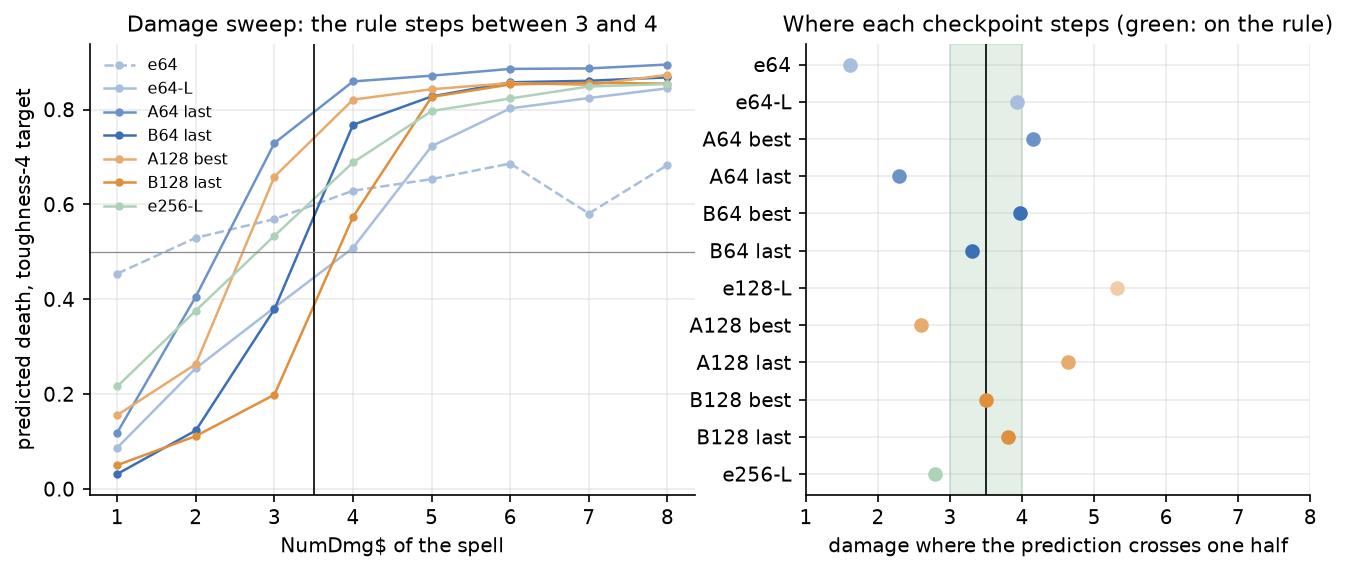
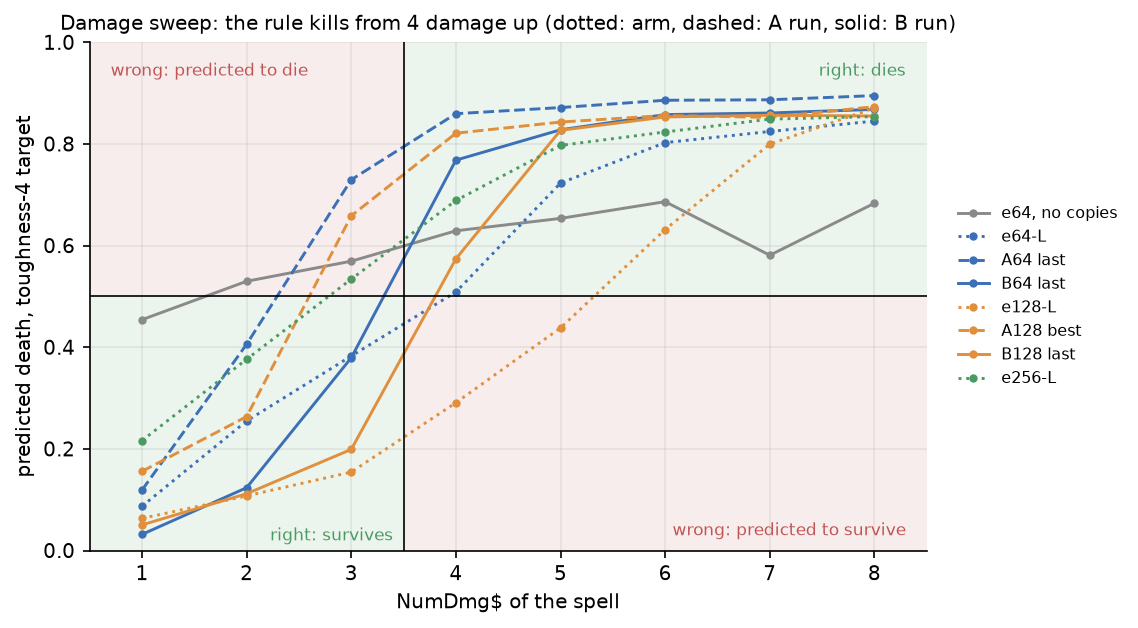
docs(effects): damage sweep shades the right and wrong quadrants in place of the crossing-point panel

diff --git a/scripts/effect_gen2_report/make_charts.py b/scripts/effect_gen2_report/make_charts.py
@@ -377,44 +377,47 @@ def boundary_by_epoch() -> None:
 
 
 def damage_sweep() -> None:
+    """The damage sweep, over quadrants that say whether a prediction is on the rule's side.
+
+    The rule kills a toughness-4 target from 4 damage up, so a curve is on the right
+    side below one half left of the step and above one half right of it, however soft.
+    """
     s = csv("sweeps.csv")
     s = s[s.sweep == "damage_spell"]
-    chosen = present(["e64", "e64-lethality", "A64 best", "A64 last", "B64 best", "B64 last",
-                      "e128-lethality", "A128 best", "A128 last", "B128 best", "B128 last",
-                      "e256-lethality", "A256 best", "A256 last", "B256 best", "B256 last"],
-                     s.checkpoint)
-    fig, (ax, ax2) = plt.subplots(1, 2, figsize=(10.5, 3.9),
-                                  gridspec_kw={"width_ratios": [1.2, 1]})
-    for name in present(["e64", "e64-lethality", "A64 last", "B64 last", "A128 best",
-                         "B128 last", "e256-lethality", "B256 last"], s.checkpoint):
+    fig, ax = plt.subplots(figsize=(7.2, 4.4))
+    right, wrong = "#4a9a62", "#c05555"
+    for (x0, x1), (y0, y1), colour in (((0.5, 3.5), (0, 0.5), right),
+                                       ((3.5, 8.5), (0.5, 1), right),
+                                       ((0.5, 3.5), (0.5, 1), wrong),
+                                       ((3.5, 8.5), (0, 0.5), wrong)):
+        ax.fill_between([x0, x1], y0, y1, color=colour, alpha=0.10, lw=0)
+    ax.text(3.4, 0.02, "right: survives", fontsize=8, color=right, ha="right")
+    ax.text(8.3, 0.96, "right: dies", fontsize=8, color=right, ha="right", va="top")
+    ax.text(0.7, 0.96, "wrong: predicted to die", fontsize=8, color=wrong, va="top")
+    ax.text(8.3, 0.03, "wrong: predicted to survive", fontsize=8, color=wrong, ha="right")
+    style = {"arm": ":", "A": "--", "B": "-"}
+    for name in present(["e64", "e64-lethality", "A64 last", "B64 last", "e128-lethality",
+                         "A128 best", "B128 last", "e256-lethality", "A256 last",
+                         "B256 last"], s.checkpoint):
         d = s[s.checkpoint == name]
-        base = name.split(" ")[0]
-        ax.plot(d.value, d.prediction, marker="o", ms=3, lw=1.2, label=short(name),
-                color=run_colour(base) if base in WIDTH_OF else GRAY,
-                ls="--" if name == "e64" else "-")
+        run = name.split(" ")[0]
+        if name == "e64":
+            colour, ls = GRAY, "-"
+        else:
+            phase = "B" if run.startswith("B") else "A" if run.startswith("A") else "arm"
+            colour, ls = WIDTH_COLOUR[WIDTH_OF[run]], style[phase]
+        ax.plot(d.value, d.prediction, marker="o", ms=3, lw=1.4, ls=ls, color=colour,
+                label=short(name) + (", no copies" if name == "e64" else ""))
     ax.axvline(3.5, color="black", lw=0.8)
-    ax.axhline(0.5, color=GRAY, lw=0.6)
+    ax.axhline(0.5, color="black", lw=0.8)
+    ax.set_xlim(0.5, 8.5)
+    ax.set_ylim(0, 1)
+    ax.set_xticks(range(1, 9))
     ax.set_xlabel("NumDmg$ of the spell")
     ax.set_ylabel("predicted death, toughness-4 target")
-    ax.set_title("Damage sweep: the rule steps between 3 and 4")
-    ax.legend(fontsize=7.5)
-    crossings = []
-    for name in chosen:
-        d = s[s.checkpoint == name].sort_values("value")
-        x, y = d.value.values, d.prediction.values
-        idx = np.where((y[:-1] < 0.5) & (y[1:] >= 0.5))[0]
-        crossings.append(x[idx[0]] + (0.5 - y[idx[0]]) / (y[idx[0] + 1] - y[idx[0]])
-                         if len(idx) else np.nan)
-    ypos = np.arange(len(chosen))[::-1]
-    ax2.axvspan(3, 4, color="#4a9a62", alpha=0.15)
-    ax2.axvline(3.5, color="black", lw=0.8)
-    for yv, name, c in zip(ypos, chosen, crossings):
-        base = name.split(" ")[0]
-        ax2.plot(c, yv, "o", color=run_colour(base) if base in WIDTH_OF else GRAY, ms=6)
-    ax2.set_yticks(ypos, [short(n) for n in chosen])
-    ax2.set_xlabel("damage where the prediction crosses one half")
-    ax2.set_title("Where each checkpoint steps (green: on the rule)")
-    ax2.set_xlim(1, 8)
+    ax.set_title("Damage sweep: the rule kills from 4 damage up (dotted: arm, dashed: A run, "
+                 "solid: B run)", fontsize=9.5)
+    ax.legend(fontsize=7.5, loc="center left", bbox_to_anchor=(1.02, 0.5))
     save(fig, "damage-sweep")
 
 

diff --git a/experiments/2026-09-18-effect-model-gen2-improvements-design.md b/experiments/2026-09-18-effect-model-gen2-improvements-design.md
@@ -123,9 +123,9 @@ Three faults remain, and the grids show all of them:
 
 The damage sweep reads the same rule from the other side: it fixes a toughness-4 target and re-encodes one spell's script with `NumDmg$` from 1 to 8. The rule puts the step between 3 and 4. Arm `e64` barely rises with the damage. With copies, every checkpoint rises steeply, and where it crosses one half moves from checkpoint to checkpoint, which the next section explains.
 
-![Damage sweep curves, and where each checkpoint crosses one half](2026-09-18-effect-model-gen2/charts/damage-sweep.png)
+![Damage sweep curves over quadrants marking where a prediction is on the rule's side](2026-09-18-effect-model-gen2/charts/damage-sweep.png)
 
-*Left: the damage sweep for six checkpoints. Right: the interpolated damage at which each checkpoint's prediction crosses one half; the green band is the rule's step. Data: `sweeps.csv` (sweep `damage_spell`).*
+*The damage sweep for the arms and continuation runs. Green quadrants are where a prediction falls on the rule's side of an even chance, a survival below 4 damage and a death from 4 up, however soft; red quadrants are where it falls on the wrong side. Colour gives the width of `e`, and the line style the run: dotted the arm, dashed the A run, solid the B run. Data: `sweeps.csv` (sweep `damage_spell`).*
 
 ### Where the boundary sits wanders between epochs at the full learning rate, and settles near the rule at a tenth of it
 

diff --git a/experiments/2026-09-18-effect-model-gen2/README.md b/experiments/2026-09-18-effect-model-gen2/README.md
@@ -53,7 +53,7 @@ Rung names in `probe_ladder.csv` follow the probes record: `0` the board alone, 
 | `damage-grids.png` | damage-by-toughness grids | `damage_grids.csv` |
 | `toughness-sweep-records.png` | toughness sweep by damage group: range of records as a band, median as a line | `sweep_records.csv`, `toughness_sweep_records.csv` |
 | `boundary-by-epoch.png` | the lethal boundary per epoch along each width's line | `boundary_by_epoch.csv` |
-| `damage-sweep.png` | the damage sweep, and where each checkpoint crosses one half | `sweeps.csv` |
+| `damage-sweep.png` | the damage sweep over quadrants marking the rule's side of an even chance | `sweeps.csv` |
 | `combat-grids.png` | combat grids of the latest run B64 checkpoint | `combat_grids.csv` |
 | `combat-keywords.png` | each combat keyword's effect against the rule | `combat_grids.csv` |
 | `gate2-keywords.png` | gate 2 agreement by keyword and checkpoint | `gate2.csv` |
